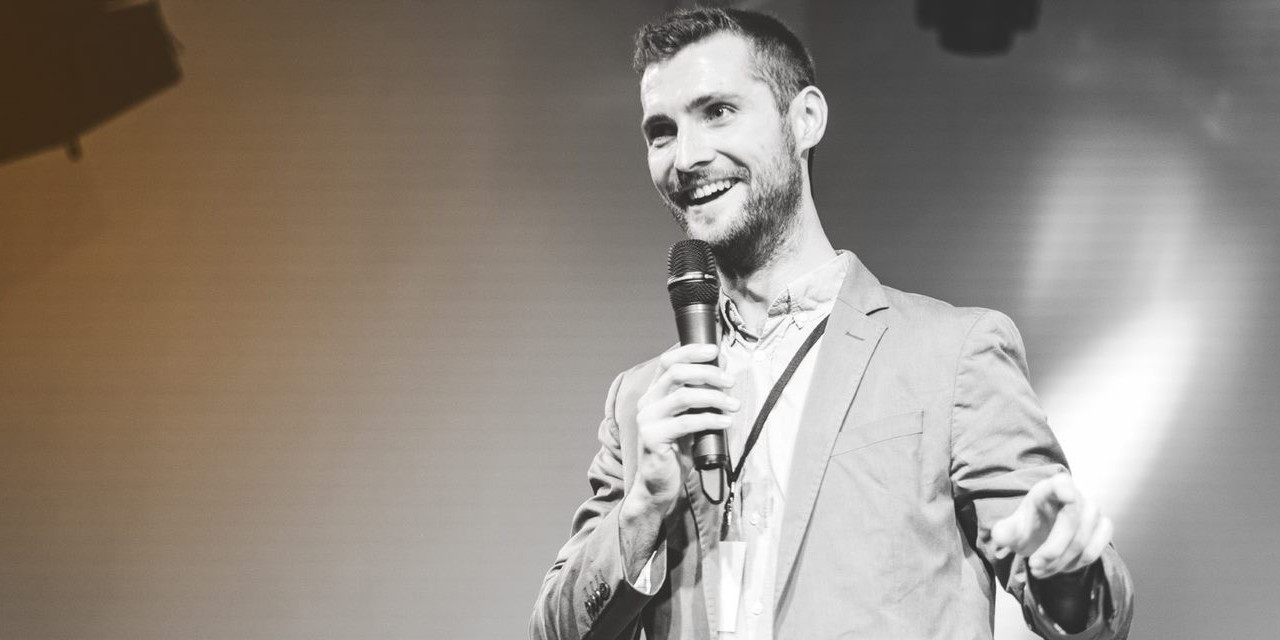
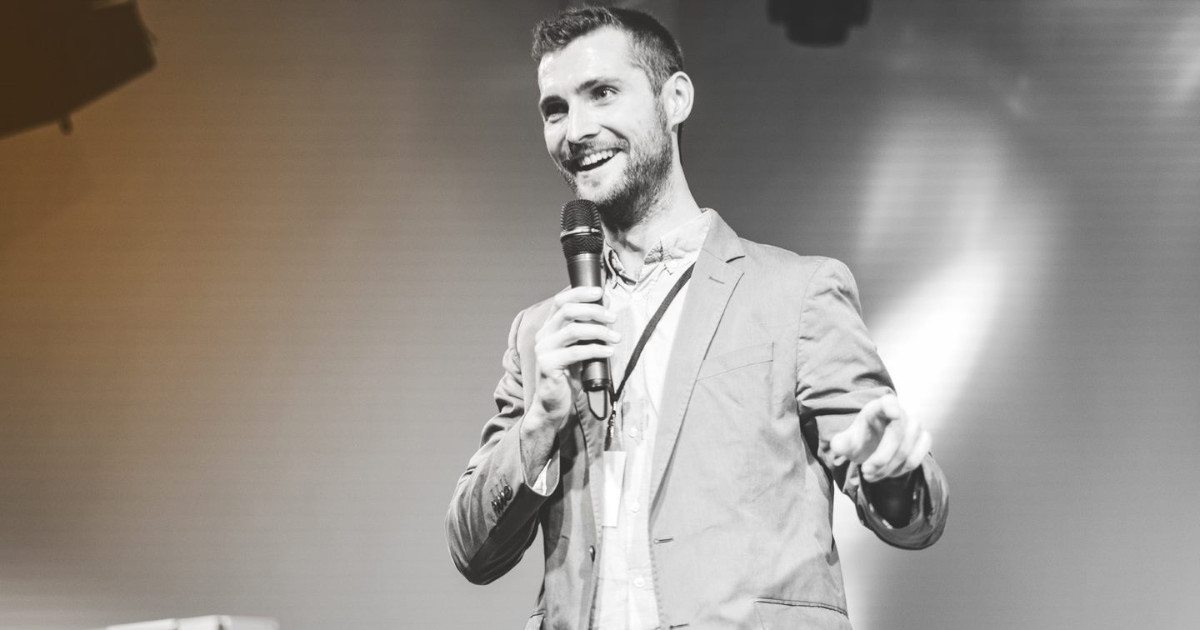
OG

diff --git a/index.html b/index.html
@@ -13,14 +13,14 @@
   <!--https://ogp.me/-->
   <!--https://socialsharepreview.com/-->
   <meta property="og:title" content="Daniel Bogdoll" />
-  <meta name="og:description"
+  <meta property="og:description"
     content="Daniel Bogdoll is a Research Assistant at FZI Research Center for Information Technology and PhD student at Karlsruhe Institute of Technology">
   <meta property="og:type" content="profile" />
   <meta property="profile:first_name" content="Daniel">
   <meta property="profile:last_name" content="Bogdoll">
   <meta property="profile:gender" content="male">
   <meta property="og:url" content="https://danielbogdoll.com" />
-  <meta property="og:image" content="assets/images/daniel.png" />
+  <meta property="og:image" content="https://danielbogdoll.com/assets/images/og_danielbogdoll.jpg" />
 
   <!--https://schema.org/Person-->
   <script type="application/ld+json">
